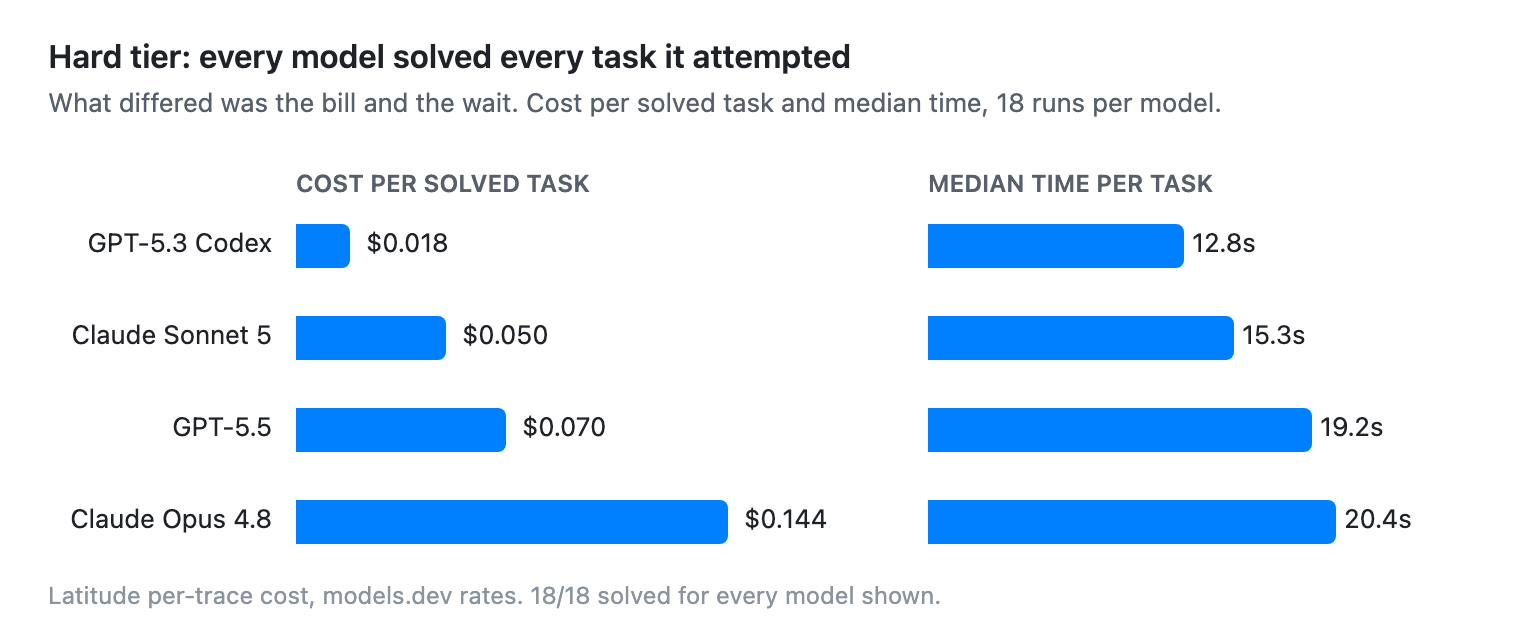
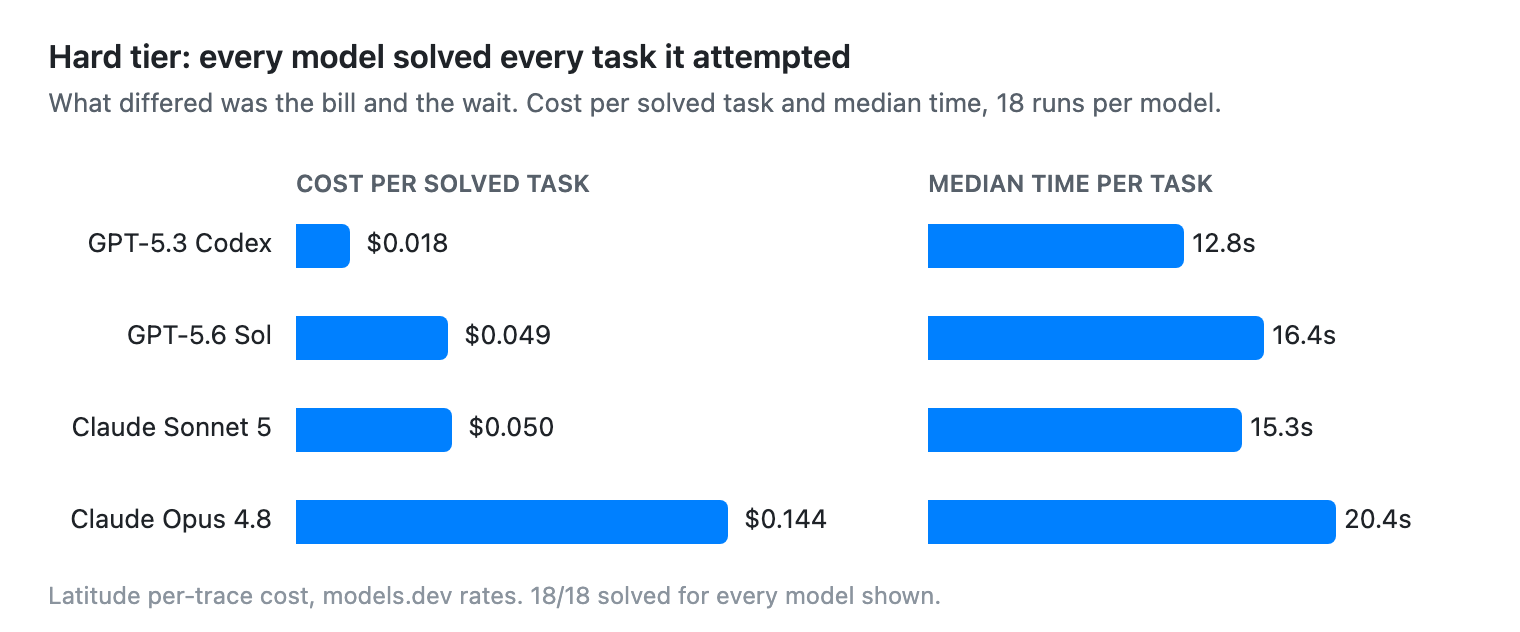
GPT-5.6 Sol replaces GPT-5.5 across article, charts, and results

diff --git a/charts/chart-cost-hard-tier.html b/charts/chart-cost-hard-tier.html
@@ -16,36 +16,36 @@
   <g font-size="13">
     <!-- model labels -->
     <text x="136" y="126" text-anchor="end" fill="#1F2328">GPT-5.3 Codex</text>
-    <text x="136" y="172" text-anchor="end" fill="#1F2328">Claude Sonnet 5</text>
-    <text x="136" y="218" text-anchor="end" fill="#1F2328">GPT-5.5</text>
+    <text x="136" y="172" text-anchor="end" fill="#1F2328">GPT-5.6 Sol</text>
+    <text x="136" y="218" text-anchor="end" fill="#1F2328">Claude Sonnet 5</text>
     <text x="136" y="264" text-anchor="end" fill="#1F2328">Claude Opus 4.8</text>
   </g>
 
   <!-- cost bars (x0=148) -->
   <g fill="#0080FF">
     <path d="M148 112 h23 a4 4 0 0 1 4 4 v14 a4 4 0 0 1 -4 4 h-23 z"/>
-    <path d="M148 158 h71 a4 4 0 0 1 4 4 v14 a4 4 0 0 1 -4 4 h-71 z"/>
-    <path d="M148 204 h101 a4 4 0 0 1 4 4 v14 a4 4 0 0 1 -4 4 h-101 z"/>
+    <path d="M148 158 h72 a4 4 0 0 1 4 4 v14 a4 4 0 0 1 -4 4 h-72 z"/>
+    <path d="M148 204 h74 a4 4 0 0 1 4 4 v14 a4 4 0 0 1 -4 4 h-74 z"/>
     <path d="M148 250 h212 a4 4 0 0 1 4 4 v14 a4 4 0 0 1 -4 4 h-212 z"/>
   </g>
   <g font-size="13" fill="#1F2328">
     <text x="183" y="126">$0.018</text>
-    <text x="231" y="172">$0.050</text>
-    <text x="261" y="218">$0.070</text>
+    <text x="232" y="172">$0.049</text>
+    <text x="234" y="218">$0.050</text>
     <text x="372" y="264">$0.144</text>
   </g>
 
   <!-- time bars (x0=464), scale 24s -> 240px => px = s * 10 -->
   <g fill="#0080FF">
     <path d="M464 112 h124 a4 4 0 0 1 4 4 v14 a4 4 0 0 1 -4 4 h-124 z"/>
-    <path d="M464 158 h149 a4 4 0 0 1 4 4 v14 a4 4 0 0 1 -4 4 h-149 z"/>
-    <path d="M464 204 h188 a4 4 0 0 1 4 4 v14 a4 4 0 0 1 -4 4 h-188 z"/>
+    <path d="M464 158 h164 a4 4 0 0 1 4 4 v14 a4 4 0 0 1 -4 4 h-164 z"/>
+    <path d="M464 204 h153 a4 4 0 0 1 4 4 v14 a4 4 0 0 1 -4 4 h-153 z"/>
     <path d="M464 250 h200 a4 4 0 0 1 4 4 v14 a4 4 0 0 1 -4 4 h-200 z"/>
   </g>
   <g font-size="13" fill="#1F2328">
     <text x="596" y="126">12.8s</text>
-    <text x="621" y="172">15.3s</text>
-    <text x="660" y="218">19.2s</text>
+    <text x="636" y="172">16.4s</text>
+    <text x="625" y="218">15.3s</text>
     <text x="672" y="264">20.4s</text>
   </g>
 

diff --git a/charts/chart-blind-solves.html b/charts/chart-blind-solves.html
@@ -9,7 +9,7 @@
 
   <!-- rows: GPT-5.5 13, Codex 7, Sonnet 5, Fable 4, Opus 3 ; track x0=172 width 500 (13 -> 500px) -->
   <g font-size="13">
-    <text x="160" y="106" text-anchor="end" fill="#1F2328">GPT-5.5</text>
+    <text x="160" y="106" text-anchor="end" fill="#1F2328">GPT-5.6 Sol</text>
     <text x="160" y="152" text-anchor="end" fill="#1F2328">GPT-5.3 Codex</text>
     <text x="160" y="198" text-anchor="end" fill="#1F2328">Claude Sonnet 5</text>
     <text x="160" y="244" text-anchor="end" fill="#1F2328">Claude Fable 5</text>
@@ -43,7 +43,7 @@
     <text x="682" y="291">3/13</text>
   </g>
 
-  <text x="24" y="326" font-size="12" fill="#8B949E">GPT-5.5 vs the pooled field: p = 0.00002, Fisher exact test.</text>
+  <text x="24" y="326" font-size="12" fill="#8B949E">GPT-5.6 Sol vs the pooled field: p = 0.00002, Fisher exact test.</text>
 </svg>
 </body>
 </html>

diff --git a/src/latitude-cost.ts b/src/latitude-cost.ts
@@ -53,7 +53,7 @@ async function main() {
 
   const tierOf = (r: RunResult) =>
     r.mode === 'blind' ? 'blind' : Number(r.task.slice(0, 2)) <= 12 ? 'easy' : 'hard'
-  const models = ['claude-fable-5', 'claude-opus-4-8', 'claude-sonnet-5', 'gpt-5.5', 'gpt-5.3-codex']
+  const models = [...new Set(matched.map((r) => r.model))].sort()
 
   for (const tier of ['easy', 'hard', 'blind']) {
     console.log(`=== ${tier} (Latitude cost)`)

diff --git a/ARTICLE.md b/ARTICLE.md
@@ -1,6 +1,6 @@
 # I Made 5 Frontier Models Run 410 Coding Tasks. Coding Ability Is Not What Separates Them.
 
-I decided to run a little experiment and gave five frontier models the same job: they got a small JavaScript project and a bug report, with four tools to go and fix it. The models I tested were Claude Opus 4.8, Claude Sonnet 5, Claude Fable 5, GPT-5.5, and GPT-5.3 Codex where each ran 82 times against 18 tasks, first with the test suite available and then without it, making 410 runs in total, every one traced into Latitude for observability of different metrics like cost and latency. Before carrying out the experiment I expected a ranking of who fixes bugs best. Instead, every model fixed the bugs without too much of a hassle, and the real differences showed up in performance: what a solved task costs, how fast it got there, and oddly enough whether the model agrees to do the work at all.
+I decided to run a little experiment and gave five frontier models the same job: they got a small JavaScript project and a bug report, with four tools to go and fix it. The models I tested were Claude Opus 4.8, Claude Sonnet 5, Claude Fable 5, GPT-5.6 Sol, and GPT-5.3 Codex where each ran 82 times against 18 tasks, first with the test suite available and then without it, making 410 runs in total, every one traced into Latitude for observability of different metrics like cost and latency. Before carrying out the experiment I expected a ranking of who fixes bugs best. Instead, every model fixed the bugs without too much of a hassle, and the real differences showed up in performance: what a solved task costs, how fast it got there, and oddly enough whether the model agrees to do the work at all.
 
 Two disclosures before I get to the numbers. The harness was built and operated by Claude Fable 5 running as a coding agent, and Fable 5 is also a contestant. The benchmark tasks themselves were authored by Claude-based agents as well, which is a bias that cannot be fully ruled out, so the harness, every task, and the raw per-run results ship in this repo for anyone who wants to check the work or point it at different models.
 
@@ -24,7 +24,7 @@ All five models solved 100 percent of the runs they attempted, on both difficult
 
 However what did vary was the bill. Cost per solved task on the hard tier:
 
-![Bar charts of cost per solved task and median time per task on the hard tier: Codex $0.018 and 12.8s, Sonnet 5 $0.050 and 15.3s, GPT-5.5 $0.070 and 19.2s, Opus 4.8 $0.144 and 20.4s](charts/chart-cost-hard-tier.png)
+![Bar charts of cost per solved task and median time per task on the hard tier: Codex $0.018 and 12.8s, GPT-5.6 Sol $0.049 and 16.4s, Sonnet 5 $0.050 and 15.3s, Opus 4.8 $0.144 and 20.4s](charts/chart-cost-hard-tier.png)
 
 Claude Fable 5 is missing from this table because it refused 16 of its 18 hard-tier runs, too few solves to price fairly, for a reason that gets its own section below. On the easy tier it solved all 23 runs it attempted, at $0.20 each with a 29-second median, still the slowest and priciest of the field.
 
@@ -66,9 +66,11 @@ The fix is a one-liner in the wrapper. Finding it is the hard part: you have to 
 
 The first pass ran every blind task three times per model, and this bug was the only one where anyone failed, so I reran it at thirteen trials per model to make sure I was looking at a real difference:
 
-![Bar chart of blind solves on the event-bus bug out of 13 trials: GPT-5.5 13, Codex 7, Sonnet 5 5, Fable 5 4, Opus 4.8 3](charts/chart-blind-solves.png)
+![Bar chart of blind solves on the event-bus bug out of 13 trials: GPT-5.6 Sol 13, Codex 7, Sonnet 5 5, Fable 5 4, Opus 4.8 3](charts/chart-blind-solves.png)
 
-GPT-5.5 against the rest of the field pooled comes out at p = 0.00002 on a Fisher exact test, so this is not sampling luck. It also scrambles the pricing intuition: the cheapest model in the lineup is second best at blind diagnosis, and the most expensive is the worst.
+GPT-5.6 Sol against the rest of the field pooled comes out at p = 0.00002 on a Fisher exact test, so this is not sampling luck. It also scrambles the pricing intuition: the cheapest model in the lineup is second best at blind diagnosis, and the most expensive is the worst.
+
+A lineup note: the benchmark first ran with GPT-5.5, and OpenAI shipped GPT-5.6 while I was writing this up, so I reran all 82 of its runs on GPT-5.6 Sol. The charts show the successor. GPT-5.5 solved exactly the same tasks, including 13/13 on this bug, at slightly higher cost and latency; its full numbers are in this repo.
 
 That is a bit of an interesting revelation, at least as it pertains to this experiment. The gap between these models is not whether they can fix bugs. It is whether they can reason through a genuinely tricky bug with nothing to check their answer against, and you only pay for that gap when no test can tell the model it is wrong. If your pipeline gives agents a failing test to iterate against, the $0.018 model and the $0.144 model produce the same outcome, and the discriminating case is rare enough that I had to engineer it on purpose.
 
@@ -80,10 +82,10 @@ This was not throttling; refused calls return HTTP 200 with the rate-limit heade
 
 ## What this benchmark does not tell you
 
-The scope here is narrow on purpose so the experiment was nicely isolated. Every task is a small library, 25 to 250 lines, with exactly one planted bug and a bug report that includes a reproduction, which is the friendliest possible framing of "coding agent." This experiment doesn't address repo-scale work, ambiguous requirements, or changes that need design judgment. The tasks were written by Claude-based agents, so a family-level bias in what counts as a natural bug is possible. Every model ran once at its default settings; I did not test whether different reasoning-effort or randomness settings would change the results. Everything ran on a single day from a single region, four runs at a time, and the timing numbers include local test execution.
+The scope here is narrow on purpose so the experiment was nicely isolated. Every task is a small library, 25 to 250 lines, with exactly one planted bug and a bug report that includes a reproduction, which is the friendliest possible framing of "coding agent." This experiment doesn't address repo-scale work, ambiguous requirements, or changes that need design judgment. The tasks were written by Claude-based agents, so a family-level bias in what counts as a natural bug is possible. Every model ran once at its default settings; I did not test whether different reasoning-effort or randomness settings would change the results. Everything ran across two days from a single region, four runs at a time, and the timing numbers include local test execution.
 
 ## What I'd do with these numbers
 
 For this class of task, give your agent a test suite it can run against, wire everything into an observability platform, and buy the cheap model. Every task where the agent could run the tests was solved by the cheapest model in the lineup for a penny or two per fix, and the expensive models added little but latency and cost. Save the flagship spend for work where nothing can tell the agent it is wrong, because that is the only place I could measure a quality difference at all. Finally maybe consider refusal rate as a production metric along with signals like user frustration or escalation, measured on your own traffic.
 
-The harness, the tasks, the per-run results, and the refusal probes are all in this repo, and the whole benchmark cost around $27 in API spend if you do the same setup.
+The harness, the tasks, the per-run results, and the refusal probes are all in this repo, and the whole benchmark cost around $30 in API spend if you do the same setup.